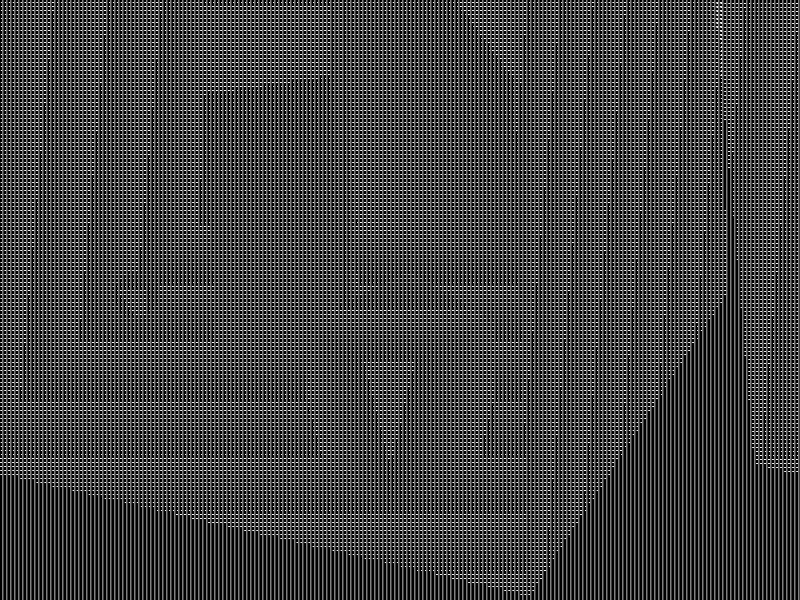
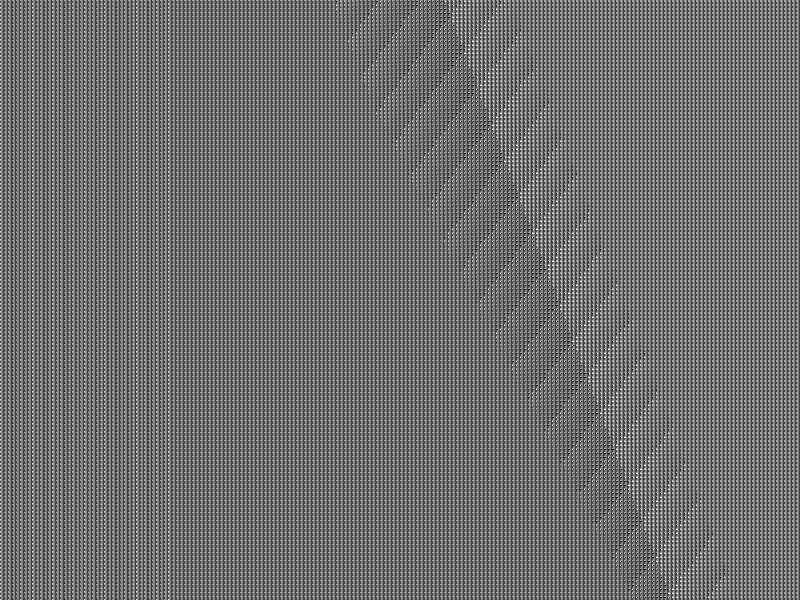
LightView render of depth buffer

diff --git a/shadows/Shadow.py b/shadows/Shadow.py
@@ -17,6 +17,7 @@ class Shadow(object):
 
         # reference to Camera object, we can obtain lookAt
         self.__lightView = None
+        self.__lightNum = None
 
         # to remember
         self.__activeCamName = None
@@ -61,7 +62,9 @@ class Shadow(object):
         glReadBuffer(GL_NONE)
         glBindFramebuffer(GL_FRAMEBUFFER, 0)  
 
-    def createLightView(self, lightPos, directionFront, upVector):
+    def createLightView(self, lightNum, lightPos, directionFront, upVector):
+        self.__lightNum = lightNum
+
         cam = Camera()
         cam.setCameraFront(*directionFront)
         cam.setCameraPosition(*lightPos)
@@ -74,13 +77,23 @@ class Shadow(object):
 
     def updateSceneWithLightView(self, scene):
         if(self.__lightView != None):
+            # scene.lightsON(False)
+            # scene.lightON(self.__lightNum, False)
+
             self.__activeCamName = scene.getActiveCameraName()
 
-            scene.addCamera(self, "lightView", self.__lightView)
+            scene.addCamera("lightView", self.__lightView)
             scene.selectCamera("lightView")
         else:
           #  print("Light View None")
           pass
+
+    def recoverSceneView(self, scene):
+        if(self.__activeCamName != None):
+            scene.selectCamera(self.__activeCamName)
+            # scene.lightON(self.__lightNum, True)
+            # scene.lightsON(True)
+            
 
     def renderDepthMap(self, scene):
         #glViewport(0, 0, width, height)
@@ -91,11 +104,10 @@ class Shadow(object):
         self.updateSceneWithLightView(scene)
         scene.draw()
 
+        #self.recoverSceneView(scene)
         glBindFramebuffer(GL_FRAMEBUFFER, 0)
 
-        # Recover scene view
-        if(self.__activeCamName != None):
-            scene.selectCamera(self.__activeCamName)
+        
 
         return self.__depthMapTexture
     

diff --git a/windows/Window.py b/windows/Window.py
@@ -8,7 +8,7 @@ from OpenGL.GLUT import *
 
 from OpenGL.GLU import *
 import sys
-from PIL import Image
+# from PIL import Image
 
 import numpy as np
 
@@ -145,12 +145,12 @@ class WindowGL:
 
             shadow.bindFBO(False)
 
-            # Use PIL to convert raw RGB buffer and flip the right way up
-            image = Image.frombytes(mode="L", size=(800, 600), data=depth_data)     
-            image = image.transpose(Image.FLIP_TOP_BOTTOM)
+            # # Use PIL to convert raw RGB buffer and flip the right way up
+            # image = Image.frombytes(mode="L", size=(800, 600), data=depth_data)     
+            # image = image.transpose(Image.FLIP_TOP_BOTTOM)
 
-            # Save image to disk
-            image.save('jpap.png')
+            # # Save image to disk
+            # image.save('jpap.png')
          
             # Clear the screen and the depth buffer
             glClear(GL_COLOR_BUFFER_BIT | GL_DEPTH_BUFFER_BIT)

diff --git a/lights/SpotLight.py b/lights/SpotLight.py
@@ -61,7 +61,7 @@ class SpotLight(Light):
     def transformShape(self, aMath3d):
         # Tricky implementation for now 
         # It places light shape to where the light is located in that moment    
-        self.placeRepresentativeShape(aMath3d)
+        #self.placeRepresentativeShape(aMath3d)
 
         self.__position = aMath3d.multiplyByVec3d(self.__position)
         self.__direction = aMath3d.multiplyByVec3d(self.__direction)

diff --git a/assignment6.py b/assignment6.py
@@ -101,6 +101,8 @@ spotLight1 = {
 	"exponent": 0
 }
 
+shadow.createLightView(Light.LIGHT_NUM[0], [0,48,0], [0,-1,0], [0,0,1])
+
 spotLight2 = {
 	"lightName": "OUTSIDE_SPOT",
 	"lightNum": 1,
